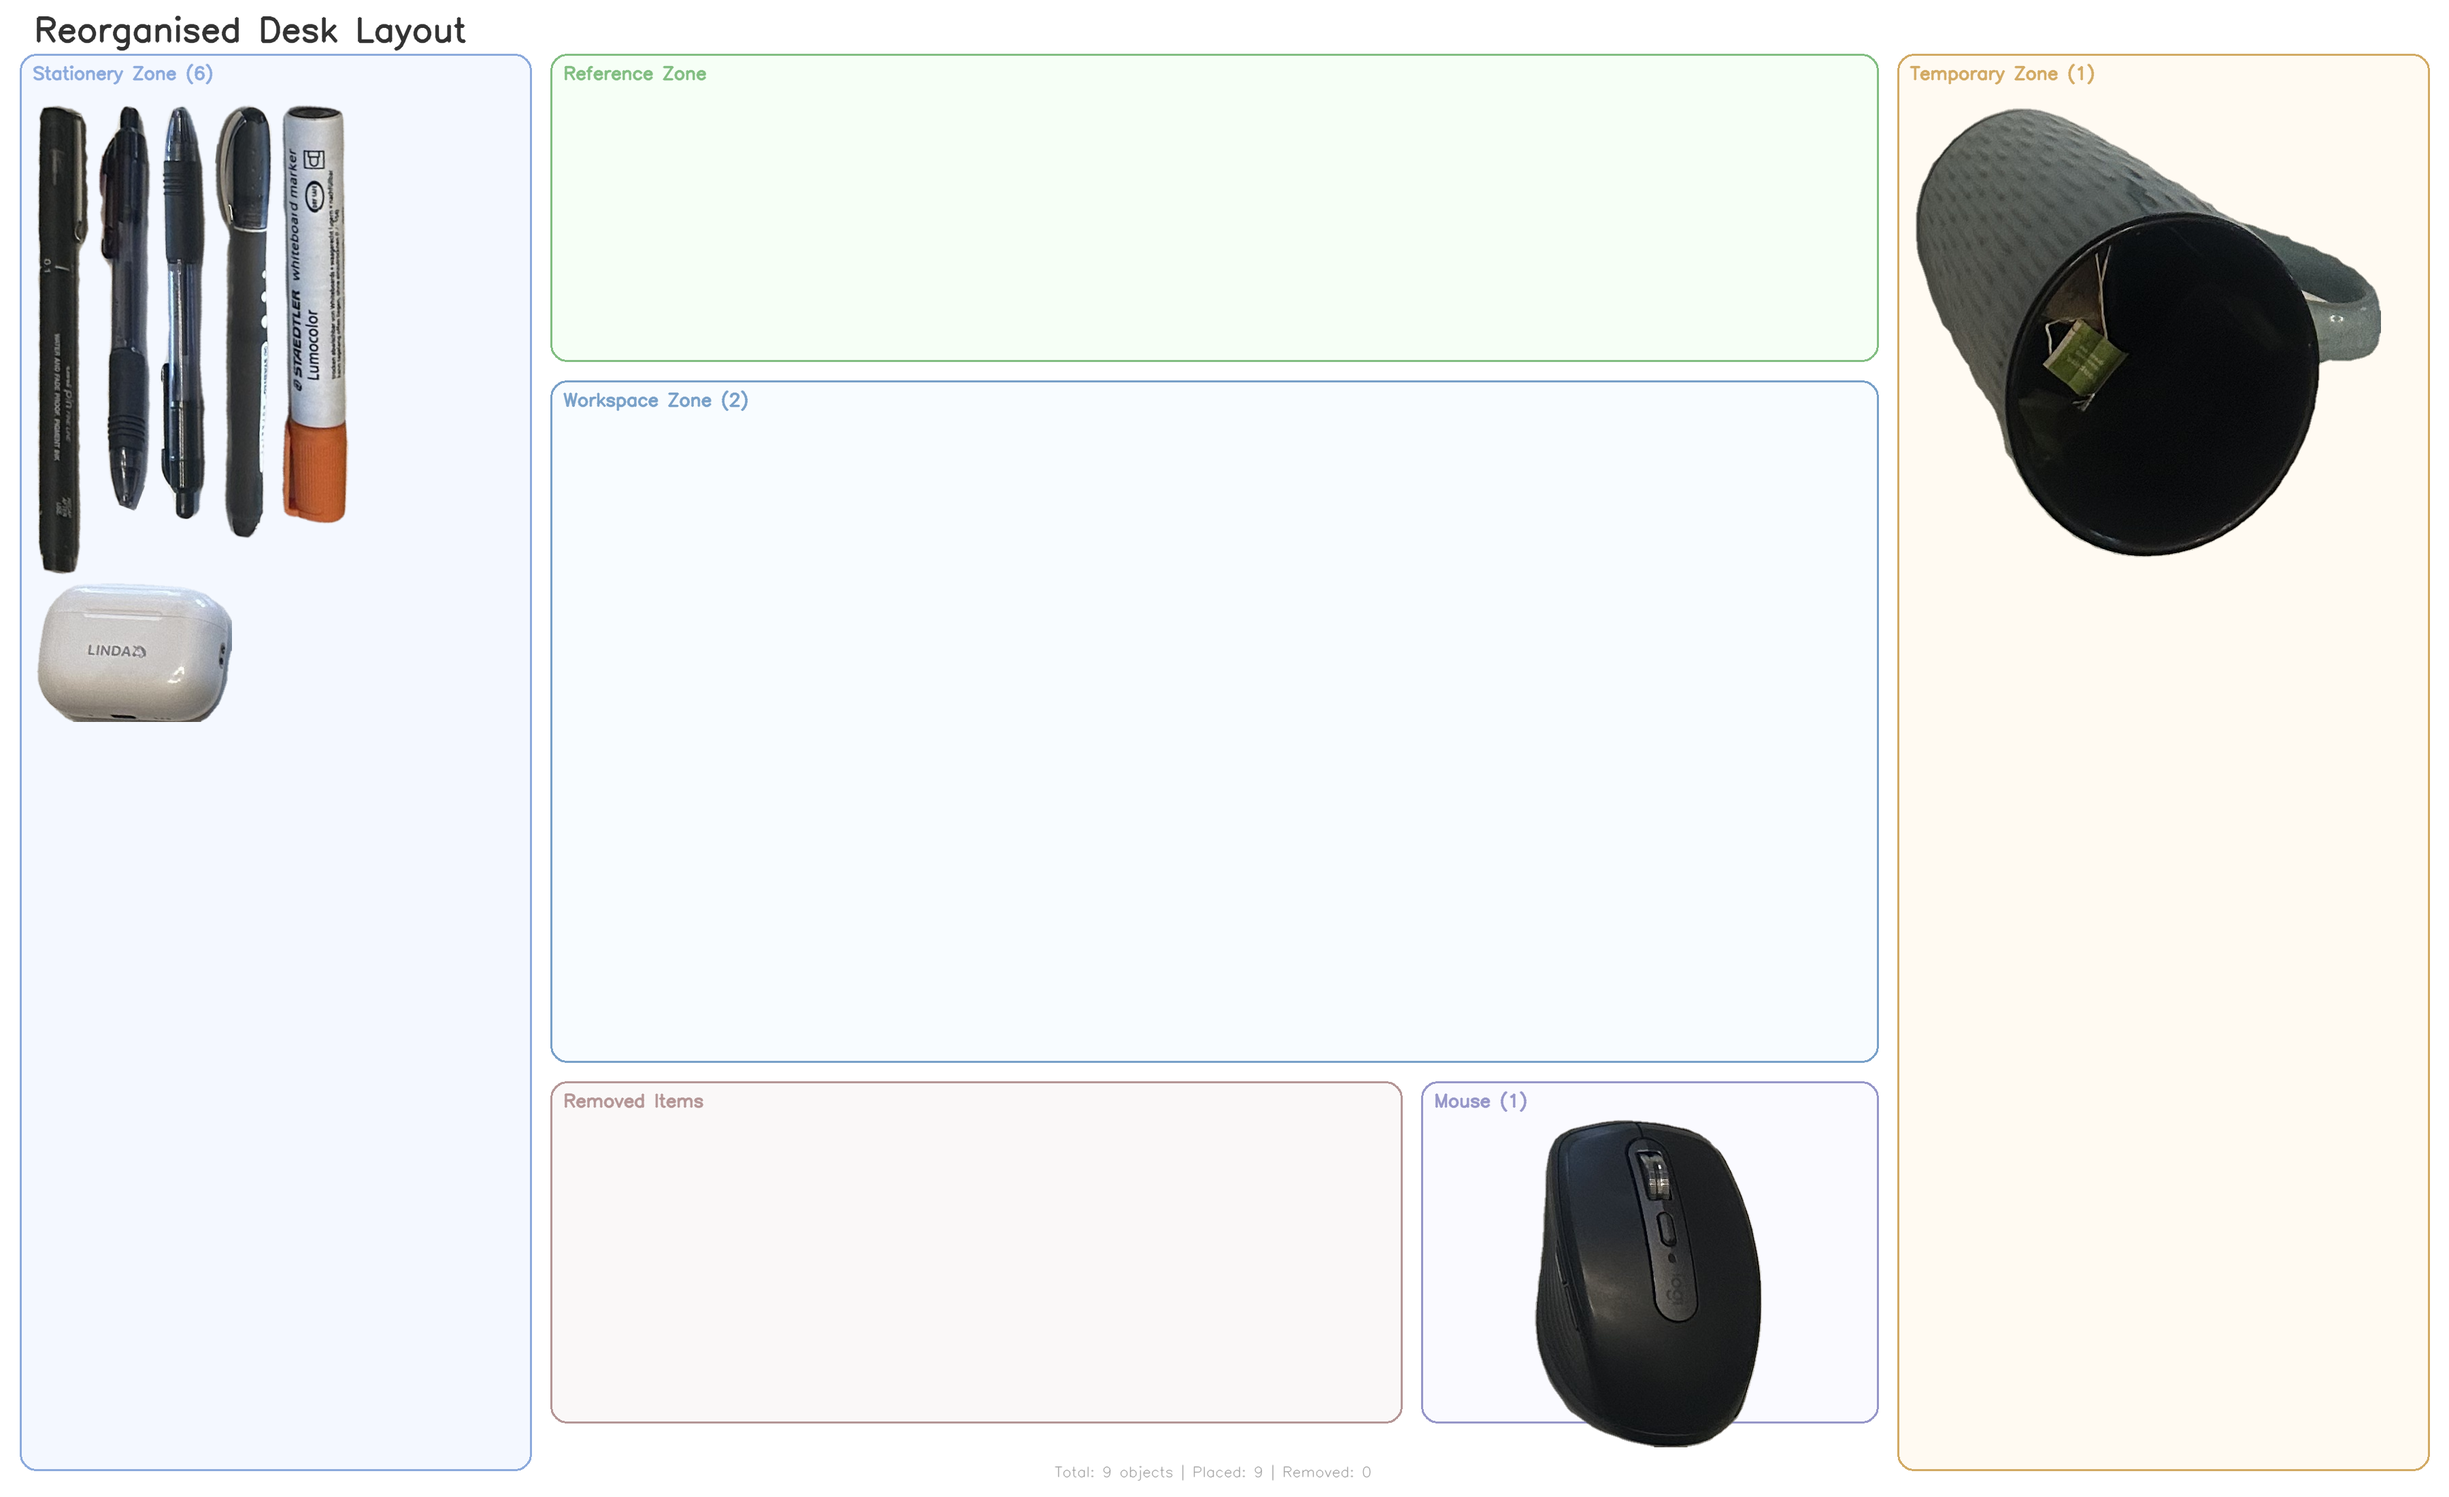
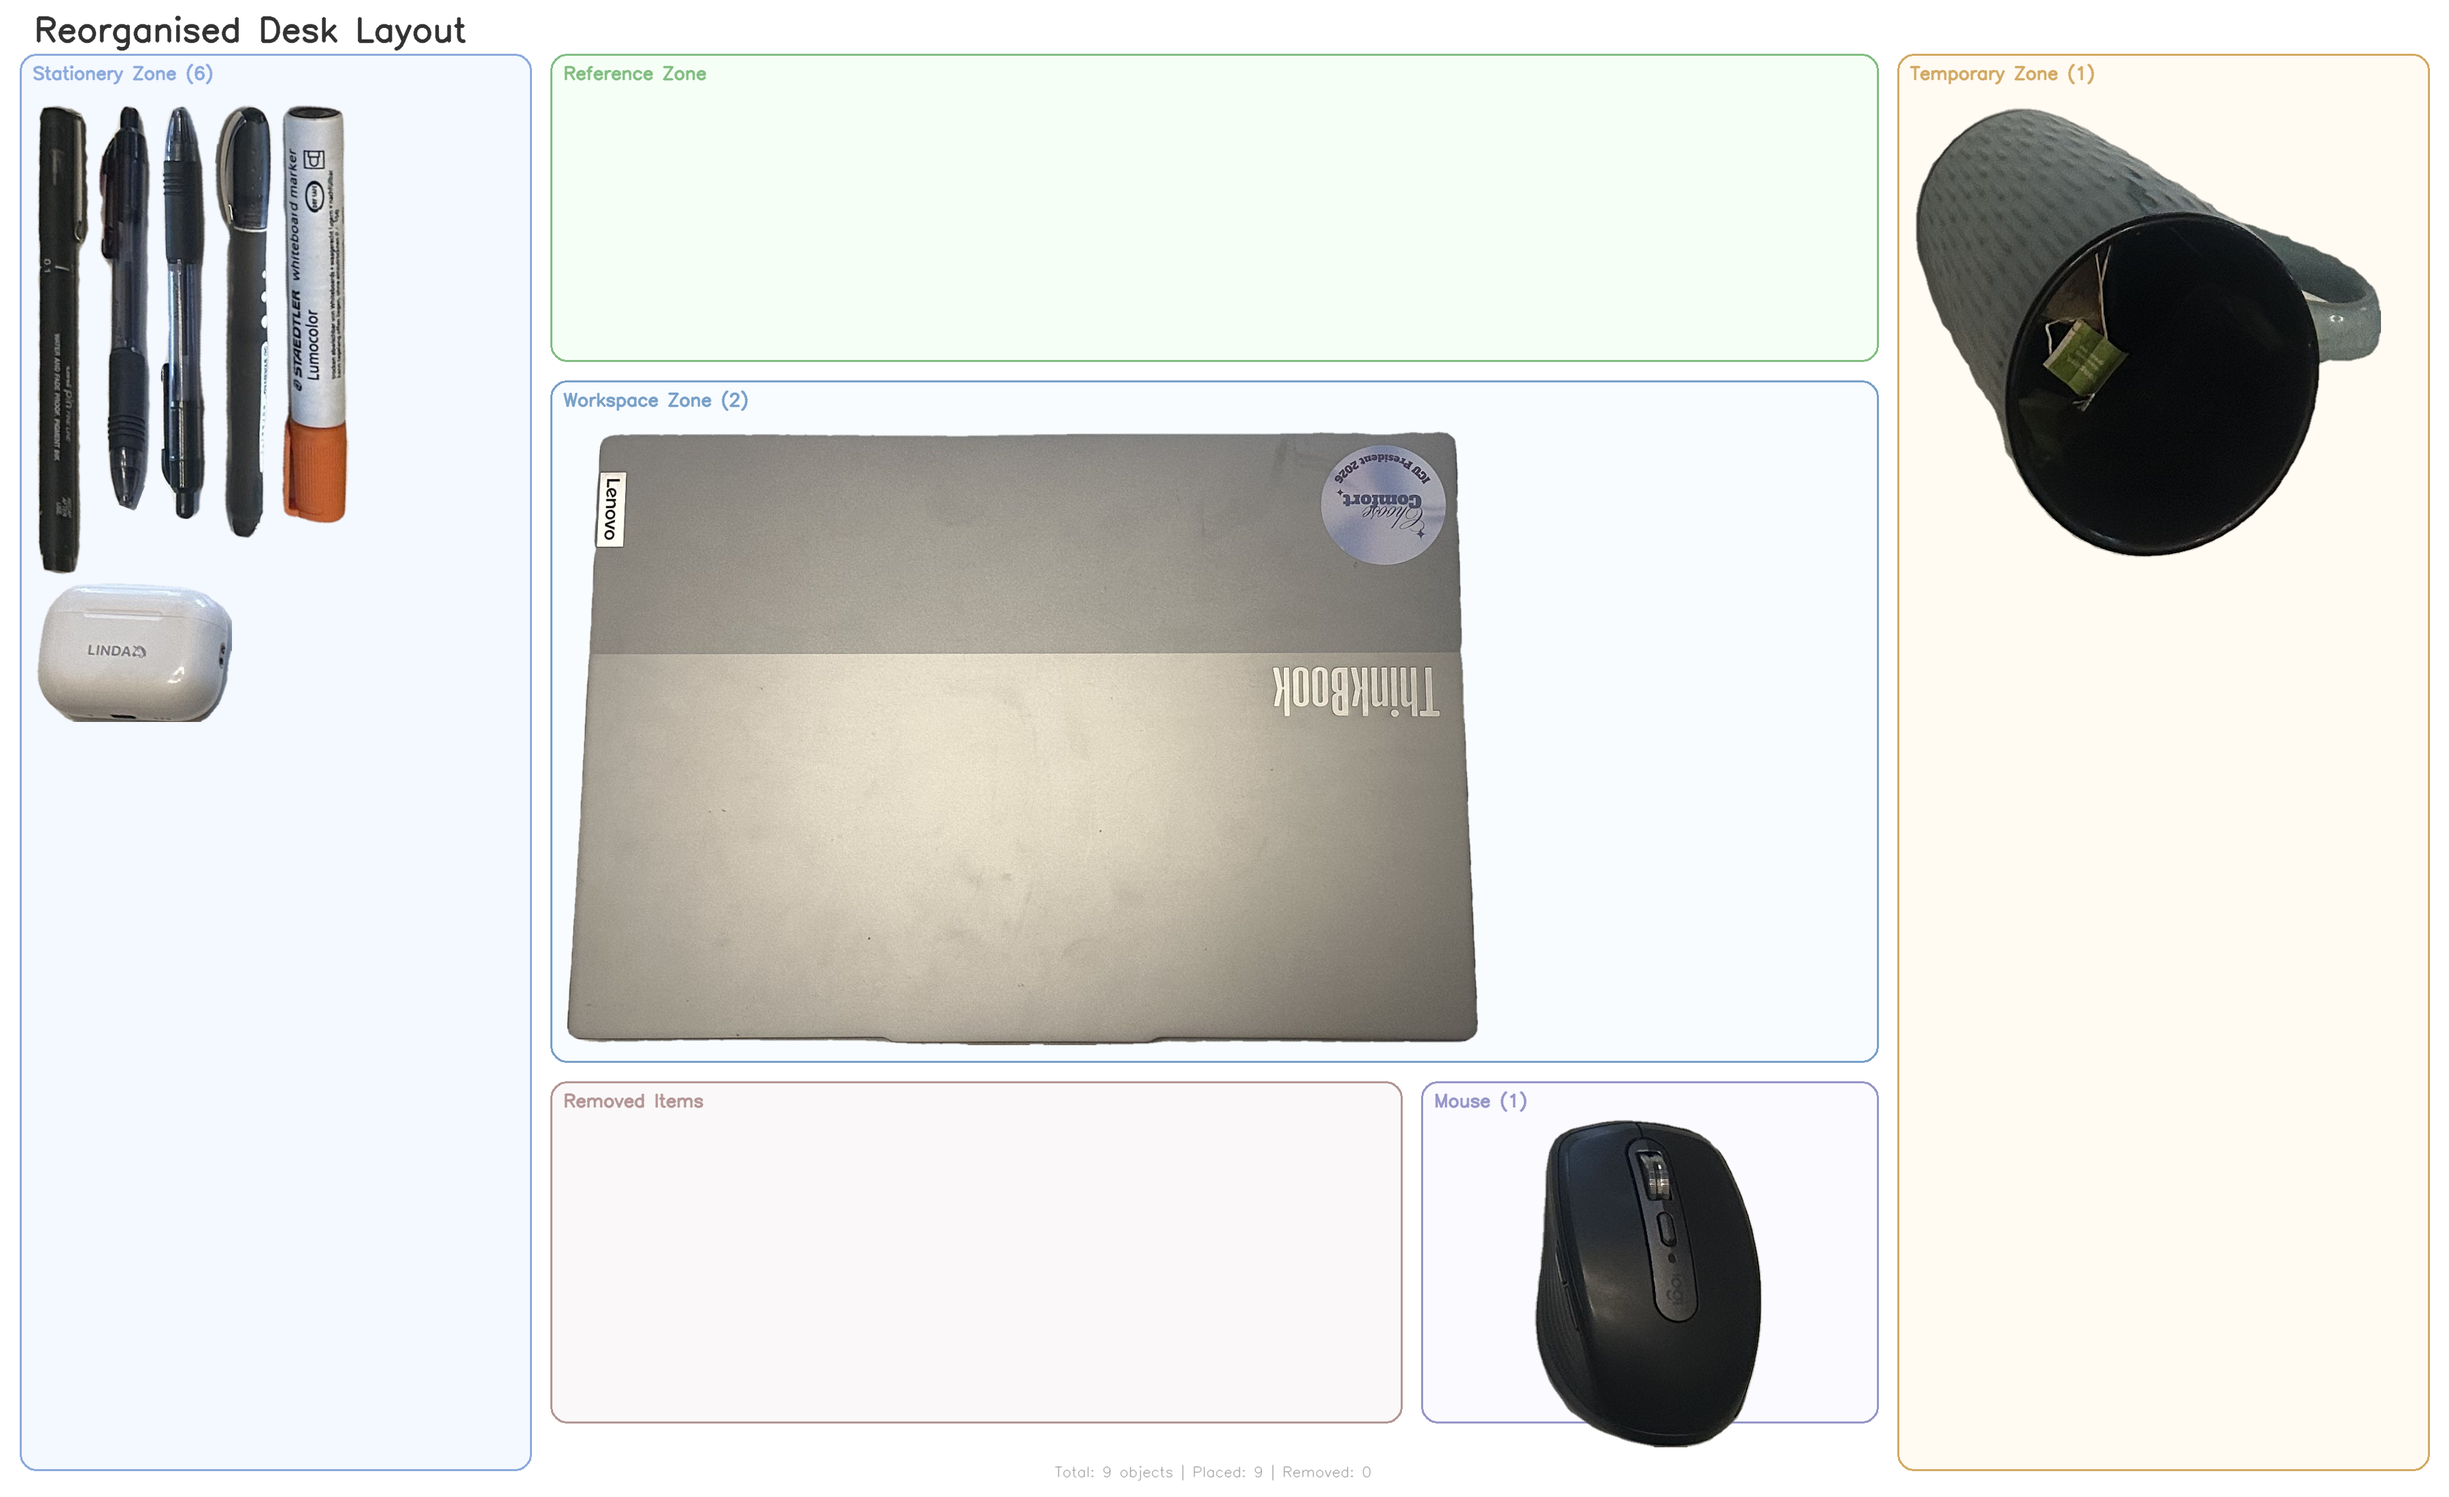
Fix workspace laptop visibility: fit scale for workspace, merge overflow to reference
Made-with: Cursor

Changed region(s): [[0.2178, 0.2782, 0.6222, 0.7109]]

diff --git a/desk_relayout_viz.py b/desk_relayout_viz.py
@@ -439,6 +439,39 @@ def _pack_items_no_overlap(
     return placed, overflow
 
 
+def _workspace_scale_for_fit(
+    items: List[_Item],
+    zone_rect: Tuple[int, int, int, int],
+    base_scale: float,
+    vertical_orientation: bool = False,
+    header_h: int = 50,
+    padding: int = 24,
+) -> float:
+    """
+    Shrink scale so the largest workspace item (e.g. laptop) fits inside the zone.
+    Without this, a tall/wide laptop at global_scale can overflow and never get drawn.
+    """
+    zx, zy, zw, zh = zone_rect
+    inner_w = max(8, zw - 2 * padding)
+    inner_h = max(8, zh - header_h - 2 * padding)
+    max_sw, max_sh = 0, 0
+    for item in items:
+        if item.patch_bgra is None or item.patch_bgra.size == 0:
+            continue
+        label = item.label.strip().lower()
+        want_vertical = vertical_orientation and label in VERTICAL_LABELS
+        patch = _ensure_orientation(item.patch_bgra.copy(), label, want_vertical)
+        ph, pw = patch.shape[:2]
+        sw = max(8, int(pw * base_scale))
+        sh = max(8, int(ph * base_scale))
+        max_sw = max(max_sw, sw)
+        max_sh = max(max_sh, sh)
+    if max_sw == 0:
+        return base_scale
+    fit = min(inner_w / max_sw, inner_h / max_sh, 1.0)
+    return base_scale * fit
+
+
 # ──────────────────────── Main class ──────────────────────────────────────────
 
 class DeskRelayoutVisualizer:
@@ -619,9 +652,18 @@ class DeskRelayoutVisualizer:
             cy = my + 50 + sh // 2
             _paste_bgra(canvas, scaled, cx, cy)
 
+        workspace_overflow: List[_Item] = []
         if other_workspace:
-            placed, _ = _pack_items_no_overlap(
-                other_workspace, zone_rects["workspace"], global_scale,
+            ws_scale = _workspace_scale_for_fit(
+                other_workspace,
+                zone_rects["workspace"],
+                global_scale,
+                vertical_orientation=False,
+                header_h=50,
+                padding=24,
+            )
+            placed, workspace_overflow = _pack_items_no_overlap(
+                other_workspace, zone_rects["workspace"], ws_scale,
                 vertical_orientation=False, header_h=50, padding=24, gap=12)
             self._draw_placed(canvas, placed)
 
@@ -633,7 +675,7 @@ class DeskRelayoutVisualizer:
         self._draw_placed(canvas, placed_stat)
 
         ref_items = zone_items.get("reference", [])
-        ref_combined = ref_items + overflow
+        ref_combined = ref_items + overflow + workspace_overflow
         if ref_combined:
             placed_ref, _ = _pack_items_no_overlap(
                 ref_combined, zone_rects["reference"], global_scale,
